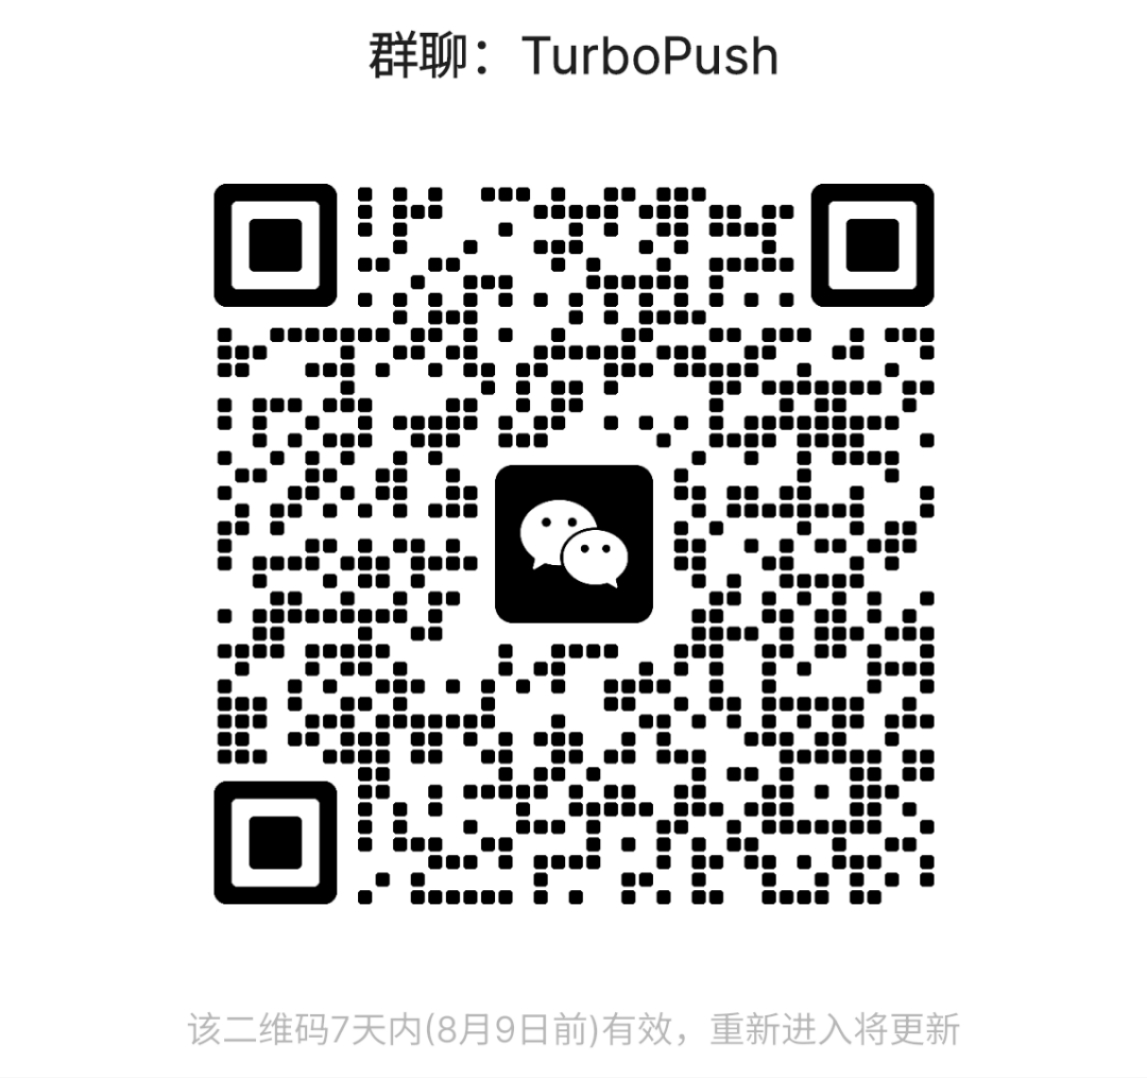
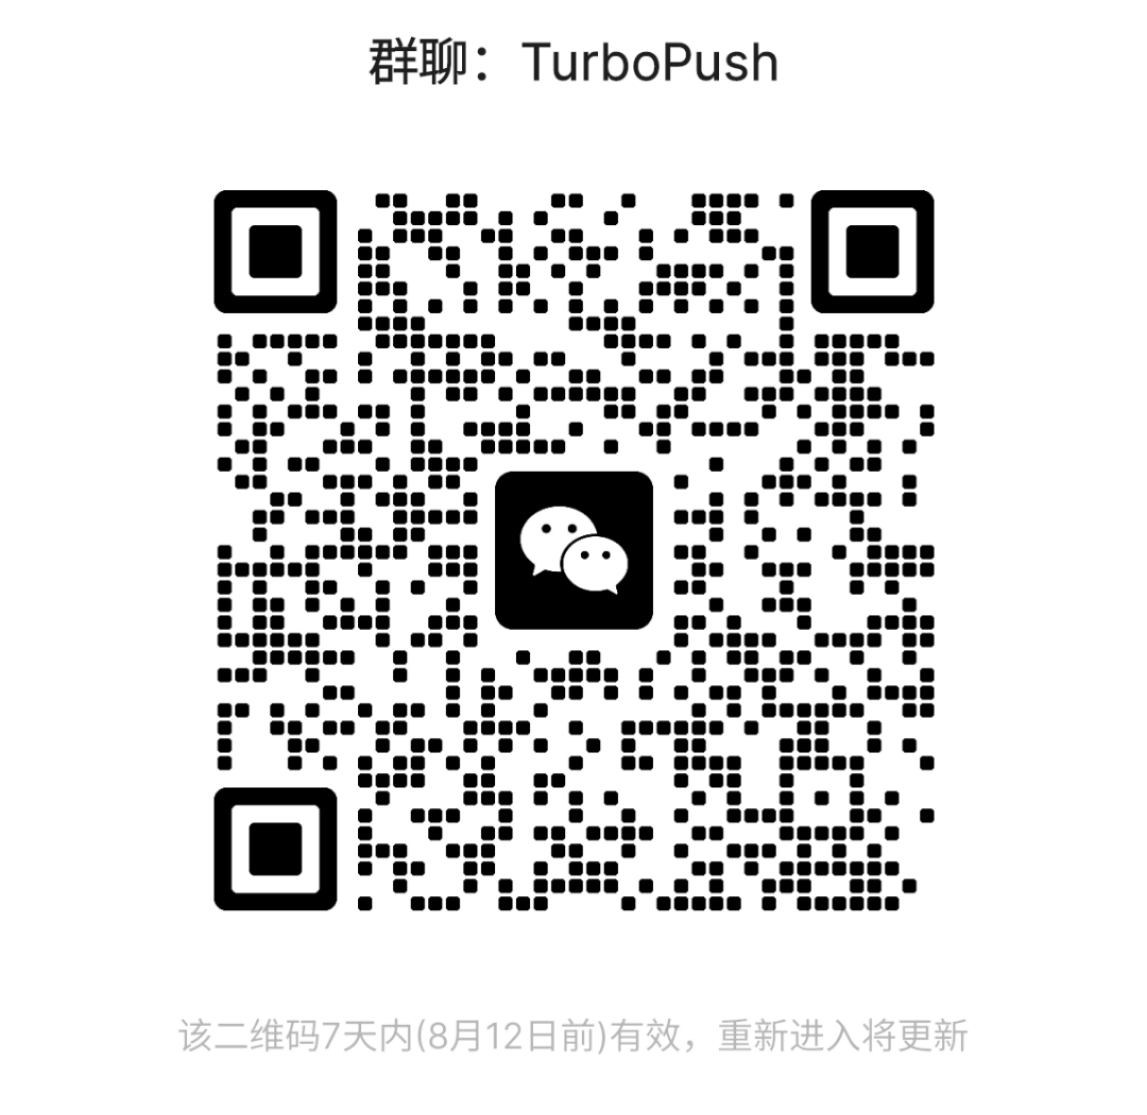
update wx qrcode

diff --git a/README.md b/README.md
@@ -2,7 +2,7 @@
 
 <div align="center">
 
-![TurboPush Logo](https://www.turbopush.top/logo.png)
+<img src="https://www.turbopush.top/logo.png" alt="TurboPush Logo" width="150" height="auto" />
 
 **一键发布工具TurboPush 先锋版震撼发布！**
 
